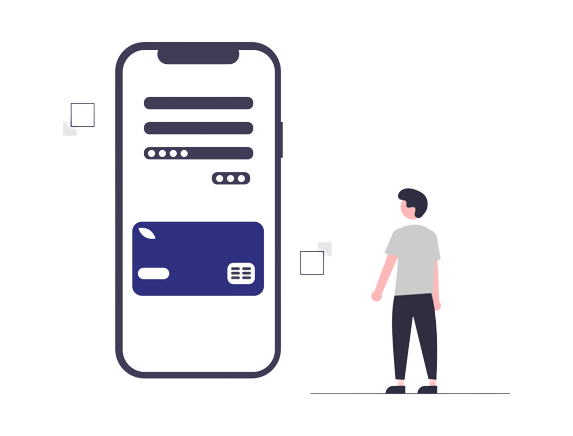
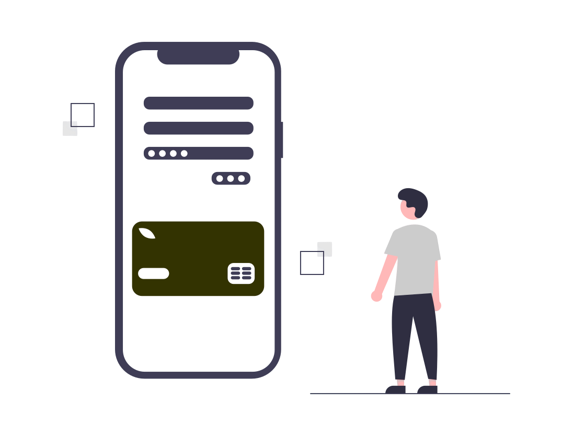
changes made to firestore db and firebase auth

diff --git a/navigations/InitialScreenOnStart.js b/navigations/InitialScreenOnStart.js
@@ -4,7 +4,6 @@ import { createBottomTabNavigator } from "@react-navigation/bottom-tabs";
 import { FontAwesome } from "@expo/vector-icons";
 import { AntDesign } from "@expo/vector-icons";
 
-import OnBoarding from "./../screens/OnBoarding";
 import Welcome from "./../screens/Welcome";
 import Login from "./../screens/Login";
 import Signup from "./../screens/Signup";
@@ -25,6 +24,7 @@ import UserComplaints from "../screens/UserComplaints";
 import Hello from "../screens/Hello";
 import Seed from "../screens/Seed";
 import Confirm from "../screens/Confirm";
+import OnBoarding from "./../screens/Onboarding";
 
 const Stack = createNativeStackNavigator();
 const Tab = createBottomTabNavigator();

diff --git a/firebase/firebase.js b/firebase/firebase.js
@@ -3,12 +3,12 @@ import "firebase/firestore";
 
 // Web app's Firebase configuration
 const firebaseConfig = {
-  apiKey: "AIzaSyDznbLMFmFxLvPS0XB1ytoj7q0H54aMsMA",
-  authDomain: "srm-pay.firebaseapp.com",
-  projectId: "srm-pay",
-  storageBucket: "srm-pay.appspot.com",
-  messagingSenderId: "380201047463",
-  appId: "1:380201047463:web:3ed4571ea016d86afc1282",
+  apiKey: "AIzaSyBjhE7fFmAQ9F5vlJ8bNQTRmkgvw_45nMs",
+  authDomain: "srm-pay-94067.firebaseapp.com",
+  projectId: "srm-pay-94067",
+  storageBucket: "srm-pay-94067.appspot.com",
+  messagingSenderId: "1059674677858",
+  appId: "1:1059674677858:web:009c2abbbef49727eba73b",
 };
 
 // Initialize Firebase

diff --git a/screens/Hello.js b/screens/Hello.js
@@ -20,8 +20,8 @@ export default function Hello({ navigation }) {
     >
       <View style={styles.agContainer}>
         <Image
-          source={require("../assets/ag.png")}
-          style={{ height: 60, width: 60, margin: 15 }}
+          source={require("../assets/srm.png")}
+          style={{ height: 80, width: 100, margin: 15 }}
         />
       </View>
       <View style={styles.logoContainer}>

diff --git a/constants/Colors.js b/constants/Colors.js
@@ -1,15 +1,10 @@
 const Colors = {
   light: "#eeee",
   grey: "#D8D8D8",
-  // primary: "#87C9E9",
-  primary: "#2F3080",
-  // secondary: "#5199E5",
-  secondary: "#EEE00E",
+  primary: "#333301",
+  secondary: "#DCC401",
   dark: "#000",
   white: "#FFFF",
-  deep: "#046DB5",
-  lightBlue: "#00A8DE",
-  text: "#3EADDF",
 };
 
 export default Colors;
